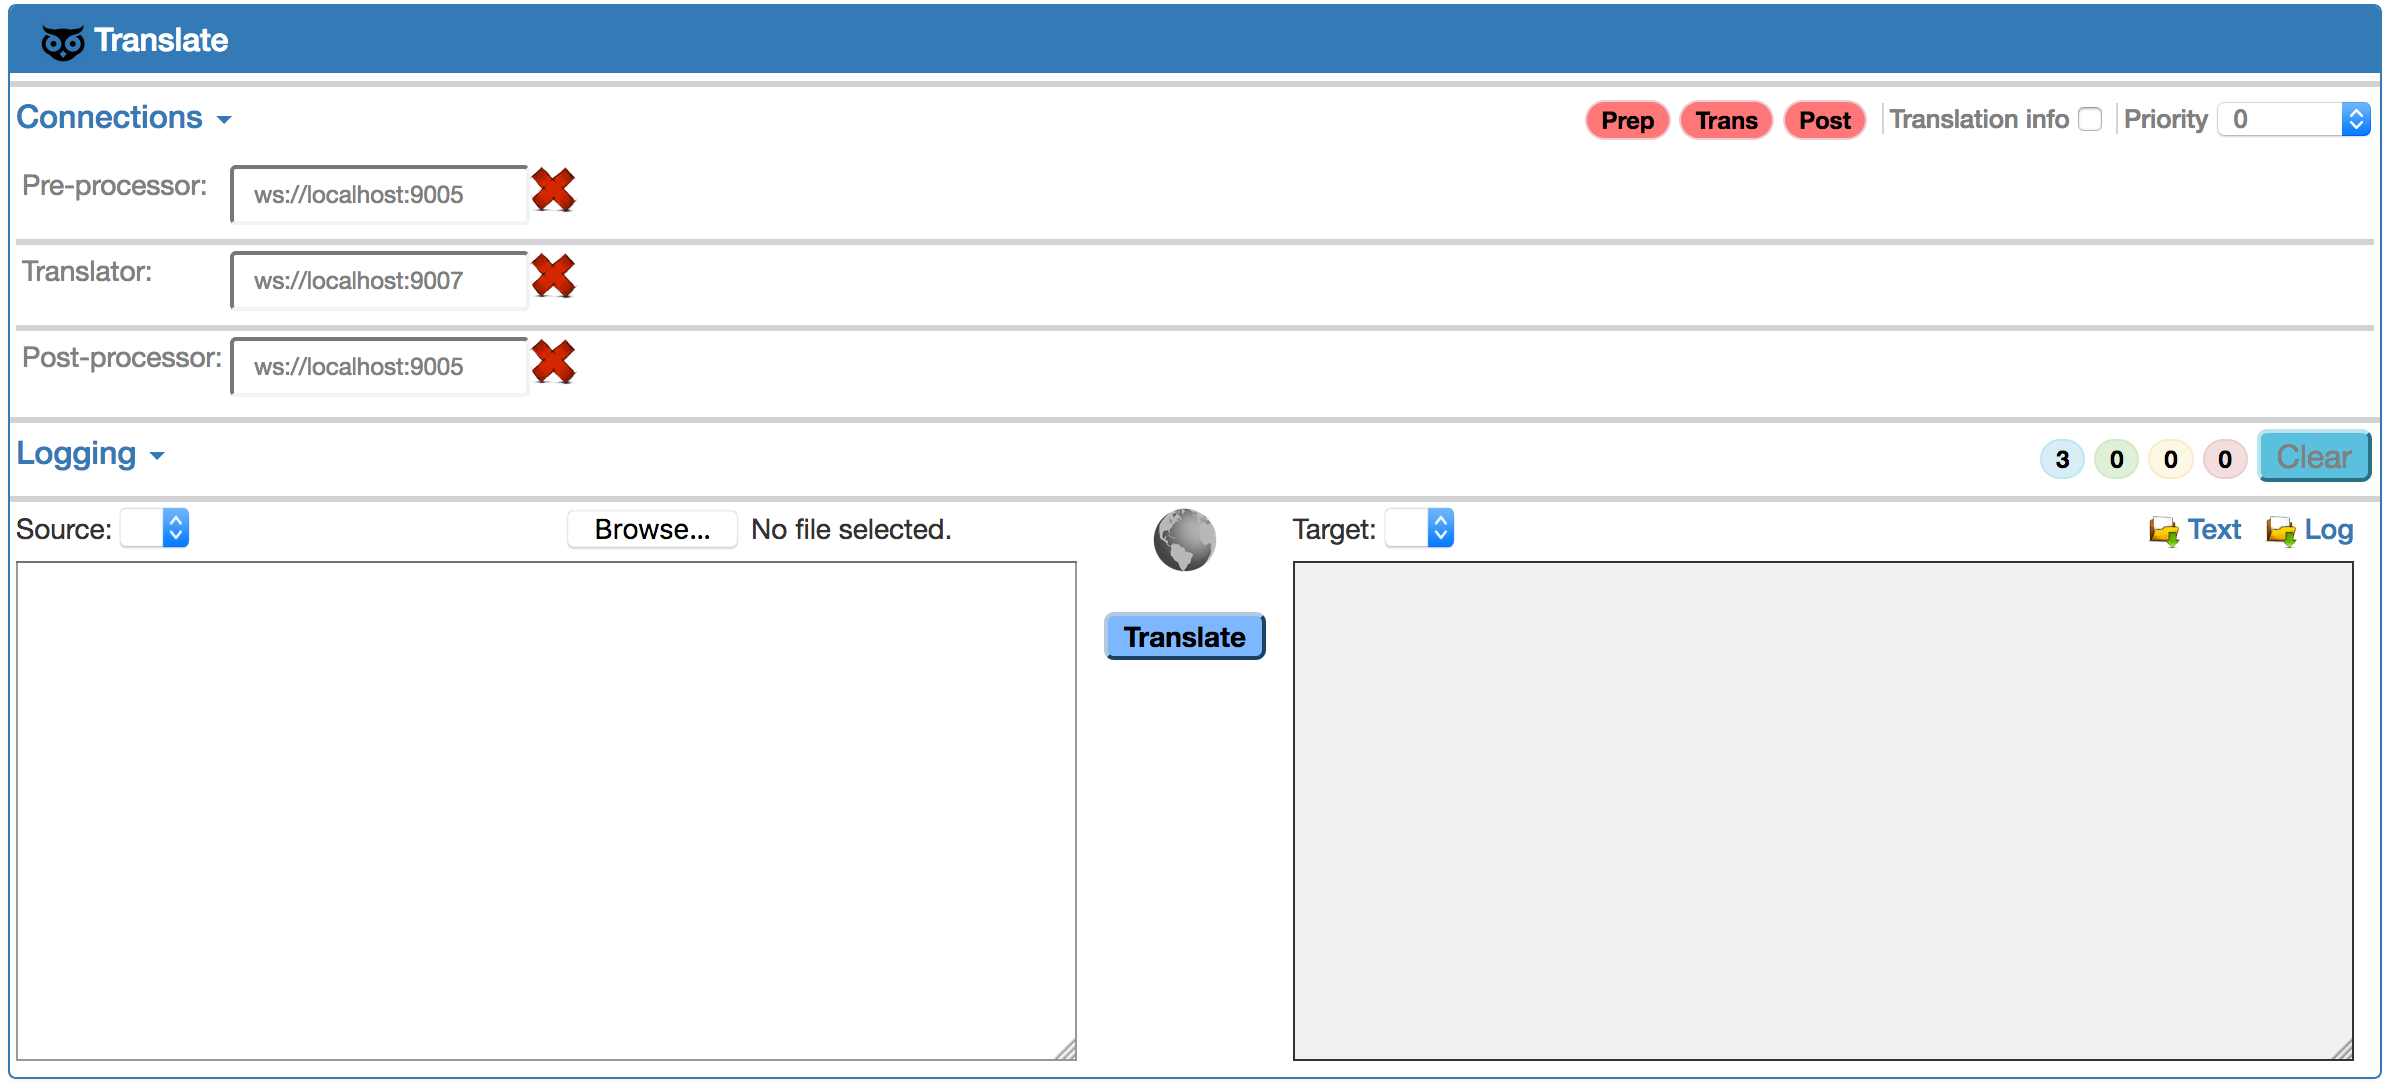
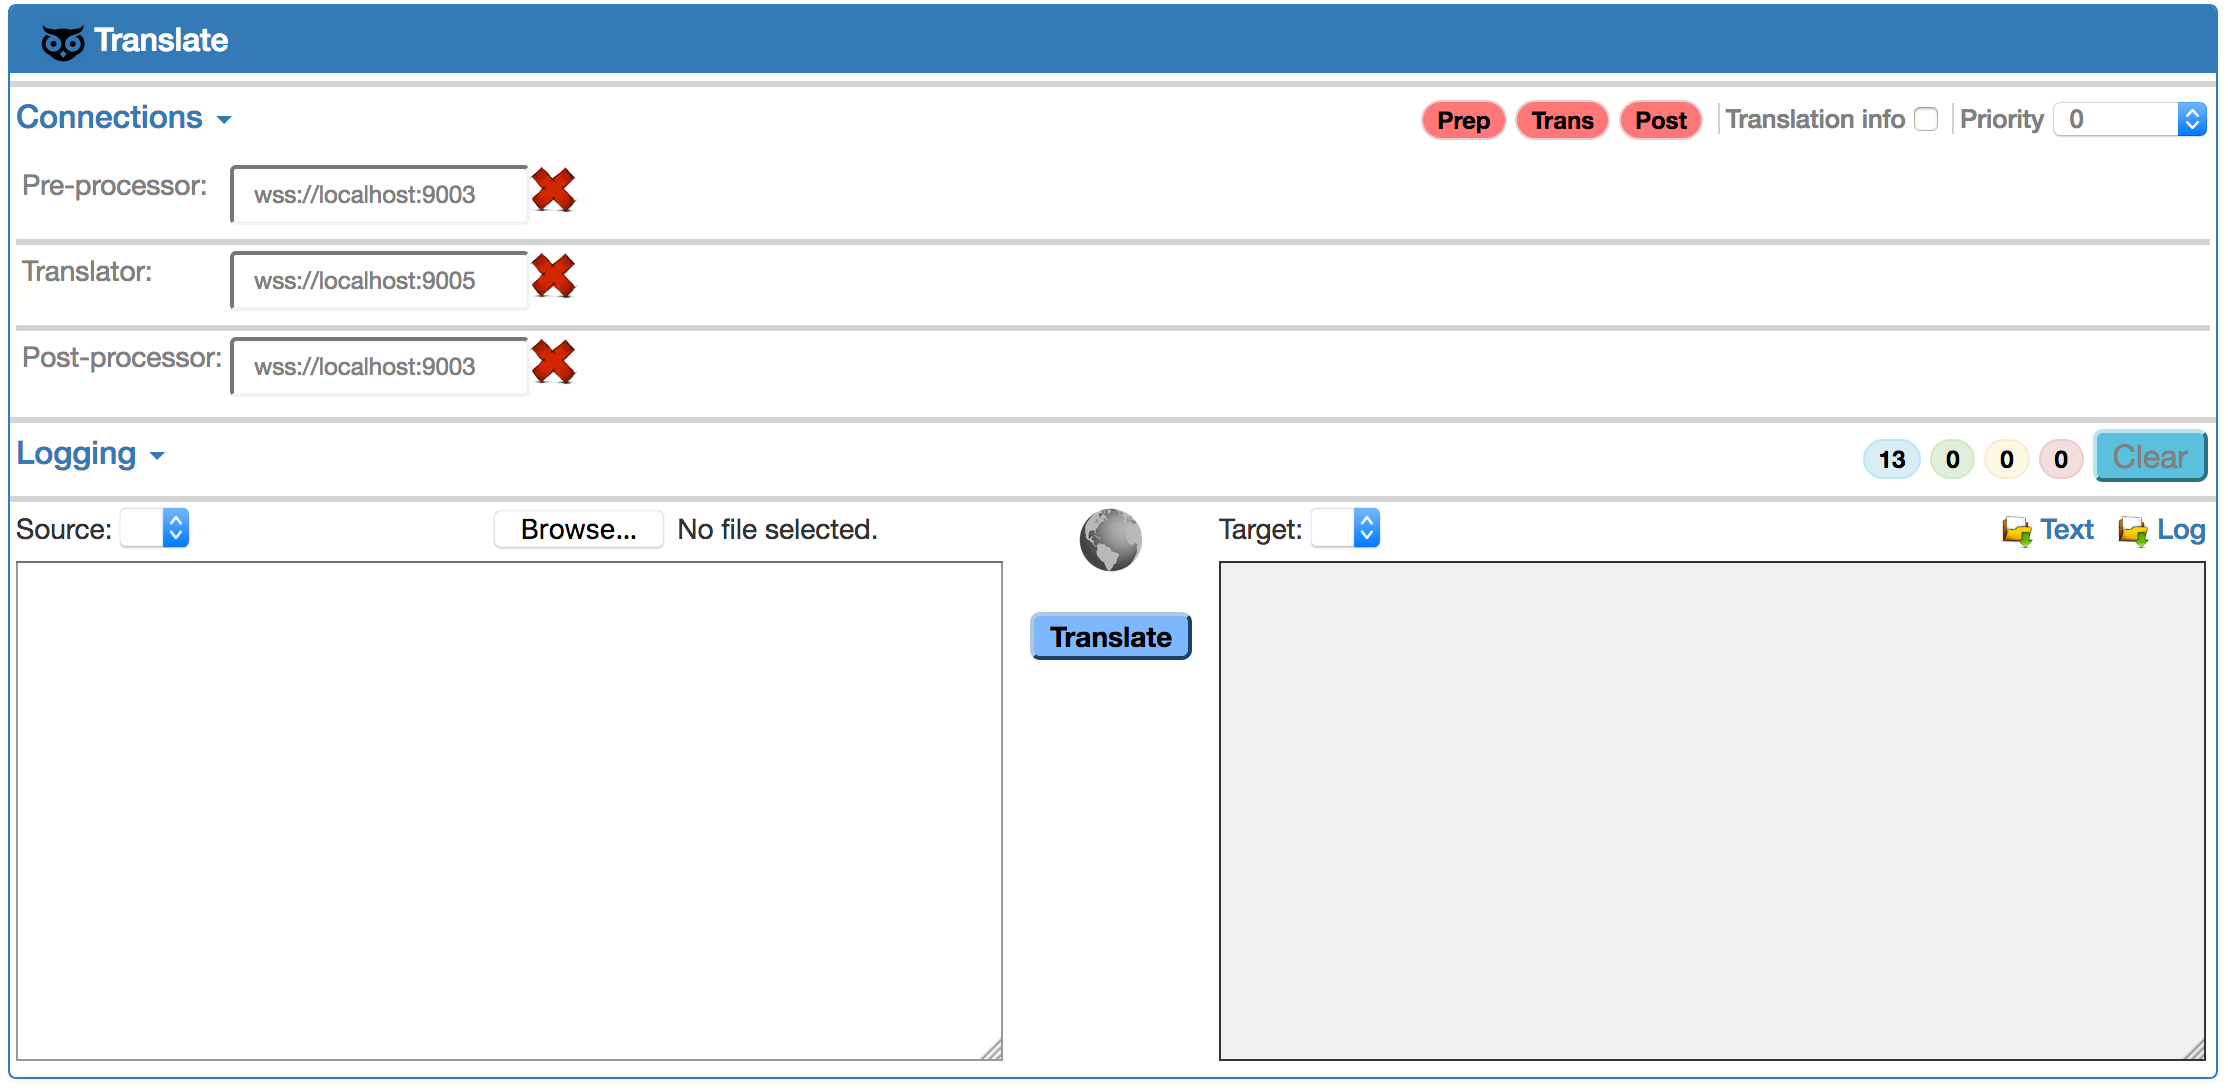
WOrking on the demos, adding TLS related details, working on the table of content

diff --git a/README.md b/README.md
@@ -48,6 +48,7 @@ In order to obtain the best performance of the translation system one can employ
 The rest of the document is organized as follows:
 
 * [Project structure](#project-structure)
+* [Demonstration sub-projects](#demonstration-sub-projects)
 * [Supported platforms](#supported-platforms)
 * [Building the project](#building-the-project)
    * [Installing third-party software](#installing-third-party-software)
@@ -74,16 +75,16 @@ The rest of the document is organized as follows:
        * [Tuning-related client details](#tuning-related-client-details) 
    * [Web translation client](#web-translation-client)
        * [Connecting to SSL/TLS servers](#connecting-to-ssltls-servers)
-5. [Input file formats](#input-file-formats) - Provides examples of the input file formats
-6. [Code documentation](#code-documentation) - Refers to the project documentation
-7. [Third-party software](#third-party-software) - Lists the included third party software
-8. [Performance evaluation](#performance-evaluation) - Contains performance evaluation results
-9. [General design](#general-design) - Outlines the general software design
-10. [Communication protocols](#communication-protocols) - Describes the application's communications
-11. [Software details](#software-details) - Goes about some of the software details
-12. [Literature and references](#literature-and-references) - Presents the list of used literature
-13. [Licensing](#licensing) - States the licensing strategy of the project
-14. [History](#history) - Stores a short history of this document
+* [Input file formats](#input-file-formats)
+* [Code documentation](#code-documentation)
+* [Third-party software](#third-party-software)
+* [Performance evaluation](#performance-evaluation)
+* [General design](#general-design)
+* [Communication protocols](#communication-protocols)
+* [Software details](#software-details)
+* [Literature and references](#literature-and-references)
+* [Licensing](#licensing)
+* [History](#history)
 
 ## Project structure
 
@@ -115,6 +116,13 @@ This is a Netbeans 8.0.2 project, based on cmake, and its top-level structure is
     * `CMakeLists.txt` - cmake build script
     * `README.md` - this document
     * `Doxyfile` - Doxygen configuration file
+
+## Demonstration sub-projects
+
+For illustrative purposes the project is equipped with two demonstration set-ups showing the non-TLS and TLS based infrastructures:
+
+* `[Project-Folder]/demo/no-tls` - please consider the demo's [README.md](./blob/master/demo/no-tls/README.md), located in the corresponding folder, for more details.
+* `[Project-Folder]/demo/tls` - please consider the demo's [README.md](./blob/master/demo/tls/README.md), located in the corresponding folder, for more details.
 
 ## Supported platforms
 
@@ -776,7 +784,17 @@ Most of the interface controls have tool tips. Yet for the sake of completeness 
 
 #### Connecting to SSL/TLS servers
 
+Connecting to TLS servers through the web-client is generally not more complicated that connecting to the regular ones. Generally speaking, it should suffice just using the `wss://` protocol server prefix instead of the regular `ws://` one, e.g.:
 
+![Connected to TLS enabled servers](./demo/tls/imgs/browser_connected_01.png "Connected to TLS enabled servers")
+
+Note that, a non-TLS connection to a TLS server will not succeed as well as a TLS connection to a non-TLS server.
+
+However, if self-signed security certificates are used, then before the connection to a TLS server can be established, one needs to make the used web browser to accept the used security certificates through a *security exception* mechanism. If not done, the connections to running TLS servers from the web-browser will not succeed due to the browser's security policy:
+
+![Disconnected from TLS enabled servers](./demo/tls/imgs/browser_initial.png "Disconnected from TLS enabled servers")
+
+Each used TLS server must be added a security exception for by accessing it via an `https://` connection on the same port as the `wss://` connection will be done. I.e. if the server is located at `wss://localhost:9001` then open `https://localhost:9001` inside the web browser and add the security exception for the URL, following the procedure explained in the TLS demo [README.md](./blob/master/demo/tls/README.md), located in: `[Project-Folder]/demo/tls/`. Once done for all TLS servers, refresh the web client page to get connected.
 
 ### Language model query tool: _lm-query_
 

diff --git a/demo/tls/README.md b/demo/tls/README.md
@@ -189,11 +189,17 @@ Note that the balancing server, running on port *9005*, can only be reached via 
 
 In order to run the Web-client demo the following steps are to be taken:
 
-* Make sure to add security exceptions for the TLS servers. This is requires as the TLS servers use self-signed certificates. The exceptions are to be added for:
+* Open the `<DTI_HOME>/script/web/translate.html` web-client in one of the web-browsers.
+* Change the servers configuration to the one depicted below and notice that the **Pre**, **Trans**, and **Post** connection indicators will all  be red, meaning the servers are not connected:
+
+![The initial browser state](./imgs/browser_initial.png "The initial browser state")
+
+* The servers are not connected due to that TLS servers use self-signed certificates. This prevents the browser's security policy to establish secured connections with them
+* Now we shall add security exceptions for the following servers, using the `https://` protocol:
    * `https://localhost:9001` - the TLS translation server
    * `https://localhost:9003` - the TLS pre/post processor
    * `https://localhost:9005` - the TLS load balancer
-* Let us use `https://localhost:9001` as an example but make sure you do the same for the other two servers as well!
+* Let us consider `https://localhost:9001` as an example but make sure you do the same for the other two servers as well!
 * The example of adding security exception is done in Firefox, but doing this in Internet Explorer, Safari, Chrome or Opera requires a similar process.
 * Open your favorite web-browser and navigate to `https://localhost:9001`. The initial page you should get, if the server is fully started, is:
 
@@ -211,12 +217,7 @@ In order to run the Web-client demo the following steps are to be taken:
 
 ![Adding security exception, step 4](./imgs/browser_exception_04.png "Adding security exception, step 4")
 
-* After all three security exceptions are added, open the `<DTI_HOME>/script/web/translate.html` document in the web-browsers:
-
-![The initial browser state](./imgs/browser_initial.png "The initial browser state")
-
-* Note that the server configuration will most likely be as in the figure above and the **Pre**, **Trans**, and **Post** connection indicators will all  be red, meaning the servers are not connected;
-* Change the server configuration to the one depicted in the next figure. Here, we use TLS *pre* and *post* processor servers as well as the TLS load balancer, aggregating two different source language translation servers:
+* Refresh the web-client page in the web-browser and you should be then connected to all of the servers. Here, we have TLS *pre* and *post* processors as well as the TLS load balancer, aggregating two different source language translation servers:
 
 ![The connected browser state](./imgs/browser_connected_01.png "The connected browser state")
 
